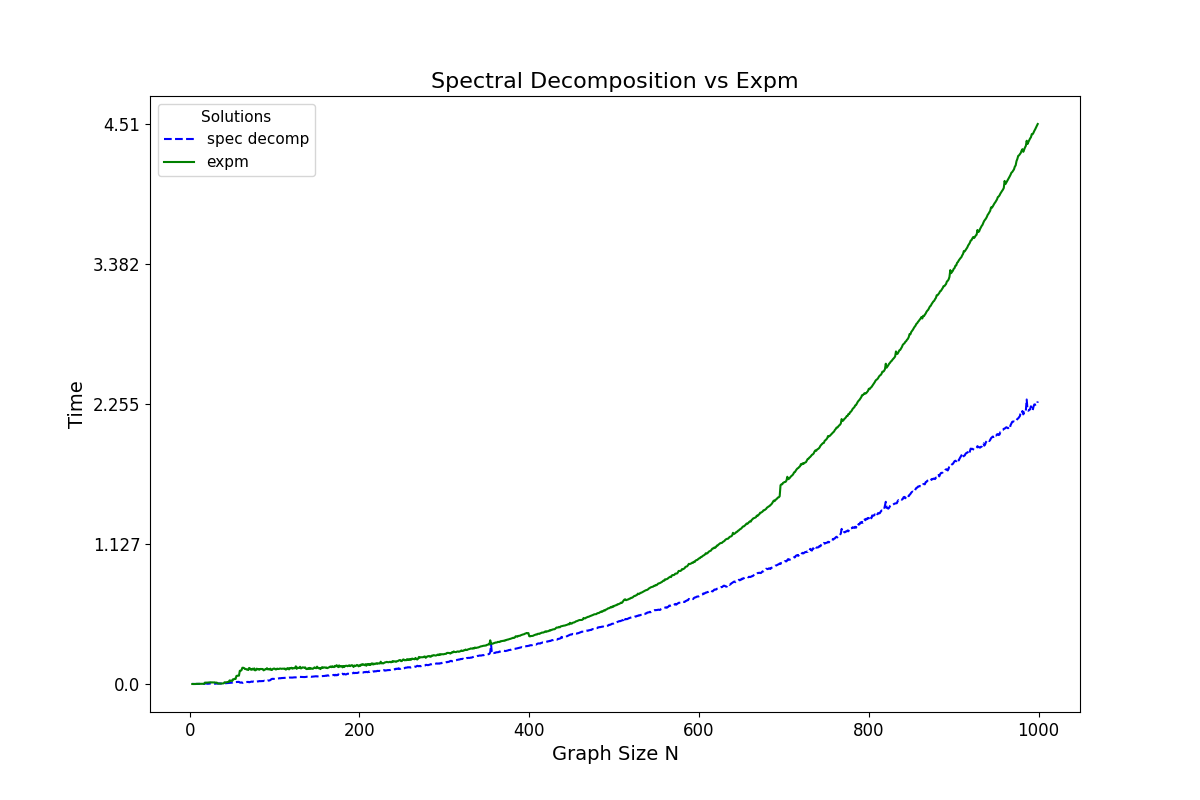
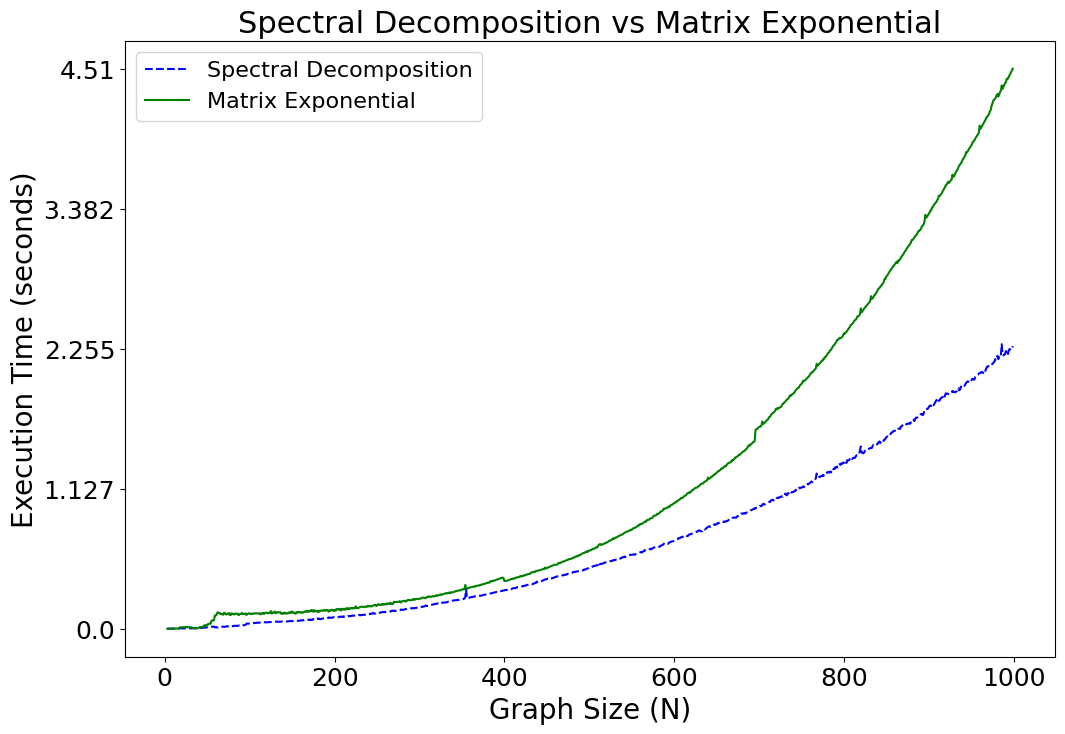
Organizing results

diff --git a/benchmark/ModuleDev/run_results_qwak_hiperwalk.py b/benchmark/ModuleDev/run_results_qwak_hiperwalk.py
@@ -90,62 +90,106 @@ def merge_by_sum(dict_a, dict_b):
         merged[key] = dict_a[key] + dict_b[key]
     return merged
 
+def smooth_data(data, window_size=10):
+    """
+    Smooth the data using a simple moving average.
+    """
+    smoothed = np.convolve(data, np.ones(window_size)/window_size, mode='valid')
+    return np.concatenate((data[:window_size-1], smoothed))
 
 
 nMin = 3
 nMax = 1000 
 n_values = list(range(nMin, nMax, 1))
 pVal = 0.8
-sample_range = range(0, 100, 1)
+samples = 100
+sample_range = range(0, samples, 1)
 seed = 10
-
-
-
+t = 100
 SCRIPT_DIR = os.getcwd()
+
+### Hiperwalk
+
 path = os.path.normpath(os.path.join(
     SCRIPT_DIR,
-    "benchmark/ModuleDev/Profiling/operator_results"
+    "benchmark/ModuleDev/Profiling/hiperwalk_results"
 ))
 
-### Operator Benchmark
 
-results_init_avg = load_profiling_averages(
+results_init_hiperwalk_avg = load_profiling_averages(
     path=path,
-    method_name="init_operator",
+    method_name="init_hiperwalk",
     nrange=n_values,
     seed=seed
 )
 
-results_build_avg = load_profiling_averages(
+results_build_hiperwalk_avg = load_profiling_averages(
     path=path,
-    method_name="build_operator",
+    method_name="simulate",
     nrange=n_values,
     seed=seed
 )
 
-results_expm_avg = load_profiling_averages(
-    path=path,
-    method_name="build_expm_operator",
+results_hiperwalk = merge_by_sum(results_init_hiperwalk_avg, results_build_hiperwalk_avg)
+
+### Hiperwalk HPC
+
+path_hpc = os.path.normpath(os.path.join(
+    SCRIPT_DIR,
+    "benchmark/ModuleDev/Profiling/hiperwalk_results_hpc"
+))
+
+
+results_init_hiperwalk_hpc_avg = load_profiling_averages(
+    path=path_hpc,
+    method_name="init_hiperwalk",
     nrange=n_values,
     seed=seed
 )
 
+results_build_hiperwalk_hpc_avg = load_profiling_averages(
+    path=path_hpc,
+    method_name="simulate",
+    nrange=n_values,
+    seed=seed
+)
 
-init_build_merged_result = merge_by_sum(results_init_avg, results_build_avg)
+results_hiperwalk_hpc = merge_by_sum(results_init_hiperwalk_hpc_avg, results_build_hiperwalk_hpc_avg)
+
+results_hiperwalk_hpc_smooth = smooth_data(list(results_hiperwalk_hpc.values()), window_size=30)
+
+# QWAK with old method
+
+base_dir = os.path.normpath(os.path.join(
+    SCRIPT_DIR,
+    "benchmark/ModuleDev/Profiling/Old/Benchmark-SimpleQWAK_ER-NumPy"
+))
+base_dir_cupy_970 = os.path.normpath(os.path.join(
+    SCRIPT_DIR,
+    "benchmark/ModuleDev/Profiling/Old/Benchmark-SimpleQWAK_ER-CuPy_970"
+))
+
+avg_list = load_runMultipleSimpleQWAK_legacy(n_values, pVal, samples, t, base_dir)
+
+avg_list_cupy_970 = load_runMultipleSimpleQWAK_legacy(n_values, pVal, samples, t, base_dir_cupy_970)
+
+print('CuPy QWAK results computed and saved.')
+
 
 params = {
     'figsize': (12, 8),  # Adjusted figure size
-    'plot_title': 'Spectral Decomposition vs Matrix Exponential',
-    'x_label': 'Graph Size (N)',
-    'y_label': 'Execution Time (seconds)',
-    'legend_labels': ['Spectral Decomposition', 'Matrix Exponential'],
+    'plot_title': 'QWAK NumPy vs CuPy vs Hiperwalk',
+    'x_label': 'Graph Size N',
+    'y_label': 'Time (s)',
+    'legend_labels': ['Hiperwalk', 'Hiperwalk HPC', 'QWAK NumPy', 'QWAK CuPy'],
     'legend_loc': 'best',
+    # 'legend_title': 'Solutions',
     'legend_ncol': 1,
-    'color_list': ['b', 'g'],
-    'line_style_list': ['--', '-'],
+    'color_list': ['b', 'g', 'r', 'y'],
+    'line_style_list': ['--', '-', '-.', ':'],
     'save_path': os.path.normpath(os.path.join(
         SCRIPT_DIR,
-        "benchmark/ModuleDev/ImgOutput/benchmark-operator.png"
+        "benchmark/ModuleDev/ImgOutput/benchmark-hiperwalk_hpwhpcStub_numpy_cupy_.png"
     )),
     'use_loglog': False,
     'use_cbar': False,
@@ -159,15 +203,14 @@ params = {
     'title_font_size': 28,  # Reduced font size
     'xlabel_font_size': 22,  # Reduced font size
     'ylabel_font_size': 22,  # Reduced font size
-    'legend_font_size': 18,  # Reduced font size
+    'legend_font_size': 16,  # Reduced font size
     'legend_title_font_size': 20,  # Reduced font size
     'tick_font_size': 18,  # Reduced font size
     'marker_list': ['x', 'o']
 }
 
-x_value_matrix = [list(init_build_merged_result.keys()),list(results_expm_avg.keys())]
-y_value_matrix = [list(init_build_merged_result.values()),list(results_expm_avg.values())]
+x_value_matrix = [list(results_hiperwalk.keys()), list(results_hiperwalk_hpc.keys()), n_values, n_values]
+y_value_matrix = [list(results_hiperwalk.values()), results_hiperwalk_hpc_smooth, avg_list, avg_list_cupy_970]
 
-plot_qwak(x_value_matrix = x_value_matrix, y_value_matrix = y_value_matrix,**params)
-
+plot_qwak(x_value_matrix=x_value_matrix, y_value_matrix=y_value_matrix, **params)
 plt.show()

diff --git a/core/utils/plotTools.py b/core/utils/plotTools.py
@@ -19,8 +19,8 @@ def plot_qwak(
         legend_ncol=3,
         legend_loc='best',
         save_path=None,
-        font_size=12,
-        figsize=(10, 6),
+        font_size=16,  # Increased font size
+        figsize=(12, 8),  # Adjusted figure size
         color_list=None,
         line_style_list=None,
         use_loglog=False,
@@ -38,6 +38,7 @@ def plot_qwak(
         v_line_list_index=None,
         v_line_colors=None,
         x_lim=None,
+        use_grid=False,  # Added use_grid parameter
         **kwargs):
     """
     Plots data from a matrix of x values and a matrix of y values.
@@ -103,6 +104,8 @@ def plot_qwak(
         A list of colors to be used for the vertical lines. The default is None.
     x_lim : tuple, optional
         The limits of the x-axis. The default is None.
+    use_grid : bool, optional
+        Whether to use a grid. The default is False.
     """
 
     # Unpack optional parameters
@@ -134,6 +137,7 @@ def plot_qwak(
     x_lim = kwargs.get('x_lim', x_lim)
     v_line_list_index = kwargs.get(
         'v_line_list_index', v_line_list_index)
+    use_grid = kwargs.get('use_grid', use_grid)
 
     if not isinstance(
             x_value_matrix[0],
@@ -156,6 +160,8 @@ def plot_qwak(
     fig, ax = plt.subplots(figsize=figsize)
     if use_loglog:
         ax.loglog()
+    if use_grid:  # Apply grid option
+        ax.grid(True)
     axis_matrix_counter = 0
     color_matrix_counter = 0
     for xvalues, yvalues in zip(x_value_matrix, y_value_matrix):
@@ -195,25 +201,25 @@ def plot_qwak(
 
     # set the axis labels
     if x_label is not None:
-        ax.set_xlabel(x_label, fontsize=font_size + 2)
+        ax.set_xlabel(x_label, fontsize=font_size + 4)
     if y_label is not None:
-        ax.set_ylabel(y_label, fontsize=font_size + 2)
+        ax.set_ylabel(y_label, fontsize=font_size + 4)
 
     # set the plot plot_title
     if plot_title is not None:
-        ax.set_title(plot_title, fontsize=font_size + 4)
+        ax.set_title(plot_title, fontsize=font_size + 6)
 
     # set the legend
     if legend_labels is not None:
         legend = ax.legend(
             loc=legend_loc,
             ncol=legend_ncol,
-            fontsize=font_size - 1)
+            fontsize=font_size)
         if legend_title is not None:
-            legend.set_title(legend_title, prop={'size': font_size - 1})
+            legend.set_title(legend_title, prop={'size': font_size + 2})
 
     # set font size for ticks
-    ax.tick_params(axis='both', labelsize=font_size)
+    ax.tick_params(axis='both', labelsize=font_size + 2)
     min_x_value_matrix = np.min(x_value_matrix)
     max_x_value_matrix = np.max(x_value_matrix)
     min_y_value_matrix = np.min(y_value_matrix)
@@ -283,7 +289,7 @@ def plot_qwak(
 
     # save or show the plot
     if save_path is not None:
-        plt.savefig(save_path)
+        plt.savefig(save_path, bbox_inches='tight')
         plt.show()
     else:
         plt.show()

diff --git a/benchmark/ModuleDev/__init__.py b/benchmark/ModuleDev/__init__.py
@@ -1,0 +1,1 @@
+__version__ = "2023.1014-alpha"
